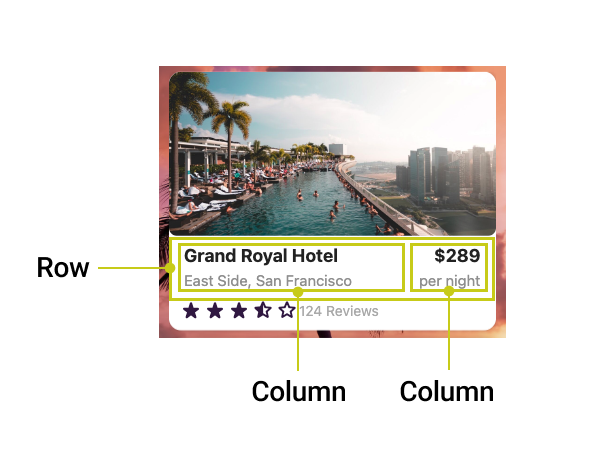
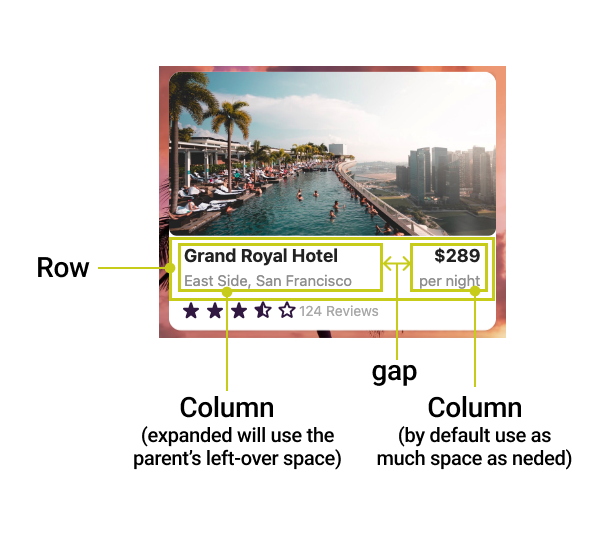
more updates

Changed region(s): [[0.1834, 0.1223, 0.9779, 0.8865], [0.0611, 0.5502, 0.1528, 0.6114], [0.0611, 0.4585, 0.1528, 0.5197]]

diff --git a/user-interface/3-layouts.md b/user-interface/3-layouts.md
@@ -1,0 +1,54 @@
+# Layouts
+Ensemble layouts are themselves widgets that contain other widgets.
+
+## Row
+Row lays out its children horizontally. Its main axis is horizontal, and it positions its children horizontally using the `mainAxis` attribute. For vertical positioning use `crossAxis` attribute. 
+
+It will try to give each child as much space as needed. To constrain the children to fill the Row's available horizontal space, use `expanded: true` flag on the children.
+
+## Column
+similar to row except children are laid out vertically. `mainAxis` and `crossAxis` are reversed.
+
+## Flex
+can switch between being a Row or Column programmatically by specifying the direction
+
+## Flow
+lay out the children in the direction specified. Once its runs out of space in this direction, wraps the content and continue in parallel to the original direction.
+
+## Stack
+lay out their children on top of one another
+
+## Example
+To render the hotel card's data, we wrap the Row around the two Columns. 
+<img src="/images/layouts_0.png" alt="Layouts" />
+
+```yaml
+#...
+Row:
+  styles:
+    gap: 10   # gap between the children
+  children:
+
+    # left Column
+    - Column:
+        styles:
+          expanded: true  # force the left column to use up the parent's left-over space
+        children:
+          - Text:
+              styles: { fontSize: 18, fontWeight: bold }
+              text: Grand Royal Hotel
+          - Text:
+              styles: { overflow: ellipsis, fontSize: 15, color: 0xFF999999 }
+              text: East Side, San Francisco
+
+    # right Column
+    - Column:
+        children:
+          - Text:
+              styles: { fontSize: 18, fontWeight: bold }
+              text: $289
+          - Text:
+              styles: { fontSize: 15, color: 0xFF999999 }
+              text: per night
+#...
+```

diff --git a/user-interface/2-widgets.md b/user-interface/2-widgets.md
@@ -1,0 +1,41 @@
+# Widgets
+
+Ensemble widgets enable you to build both simple and complex applications. 
+
+## Commonly used widgets:
+
+**Text**
+This lets you create a styled text
+
+**Markdown**
+similar to text but accept value in markdown format
+
+**Html**
+display HTML text
+
+**WebView**
+display HTML in a WebView
+
+**Image**
+display an image from local assets or via URL
+
+**Button**
+different button styling that can execute an Ensemble Action on tap
+
+**Form**
+wrap form around your input widgets and conveniently collect their value and submit to the server.
+Form input widgets include: TextInput, PasswordInput, Dropdown, Checkbox, Switch, Date, Time, ...
+
+## Some rich interactive widgets:
+
+**Carousel**
+display a list of cards in a sliding carousel
+
+**Map**
+interactive Map
+
+**QRCode**
+show a 3D QR code 
+
+**Lottie**
+Show animation in [Lottie](https://airbnb.design/lottie/) format

diff --git a/user-interface/1-page-structure.md b/user-interface/1-page-structure.md
@@ -1,7 +1,7 @@
 # Ensemble Page Structure
 
 An Ensemble app comprises a series of pages and assets. Each page starts with a `View`, followed by an optional `header`, an optional `menu`, and a single widget for the body.
-<img src="/images/page_structure_0.png" alt="Page Skeleton" />
+<img src="/images/page_structure_0.png" alt="Page Skeleton" height="700"/>
 
 ## Header
 The header contains the Safe Area (e.g. iPhone notch) and by default has the background color of your theme's primaryColor. It includes:

diff --git a/_sidebar.md b/_sidebar.md
@@ -12,8 +12,9 @@
   * [Style widgets](./getting-started/9-styling)
 * [User Interface](./user-interface/intro)
   * [Page Structure](./user-interface/1-page-structure)
-  * [Layouts](./user-interface/2-layouts.md)
-  * [Basic Widgets](./user-interface/3-basic-widgets.md)
+  * [Widgets](./user-interface/2-widgets.md)
+  * [Layouts](./user-interface/3-layouts.md)
+
 
 
 
